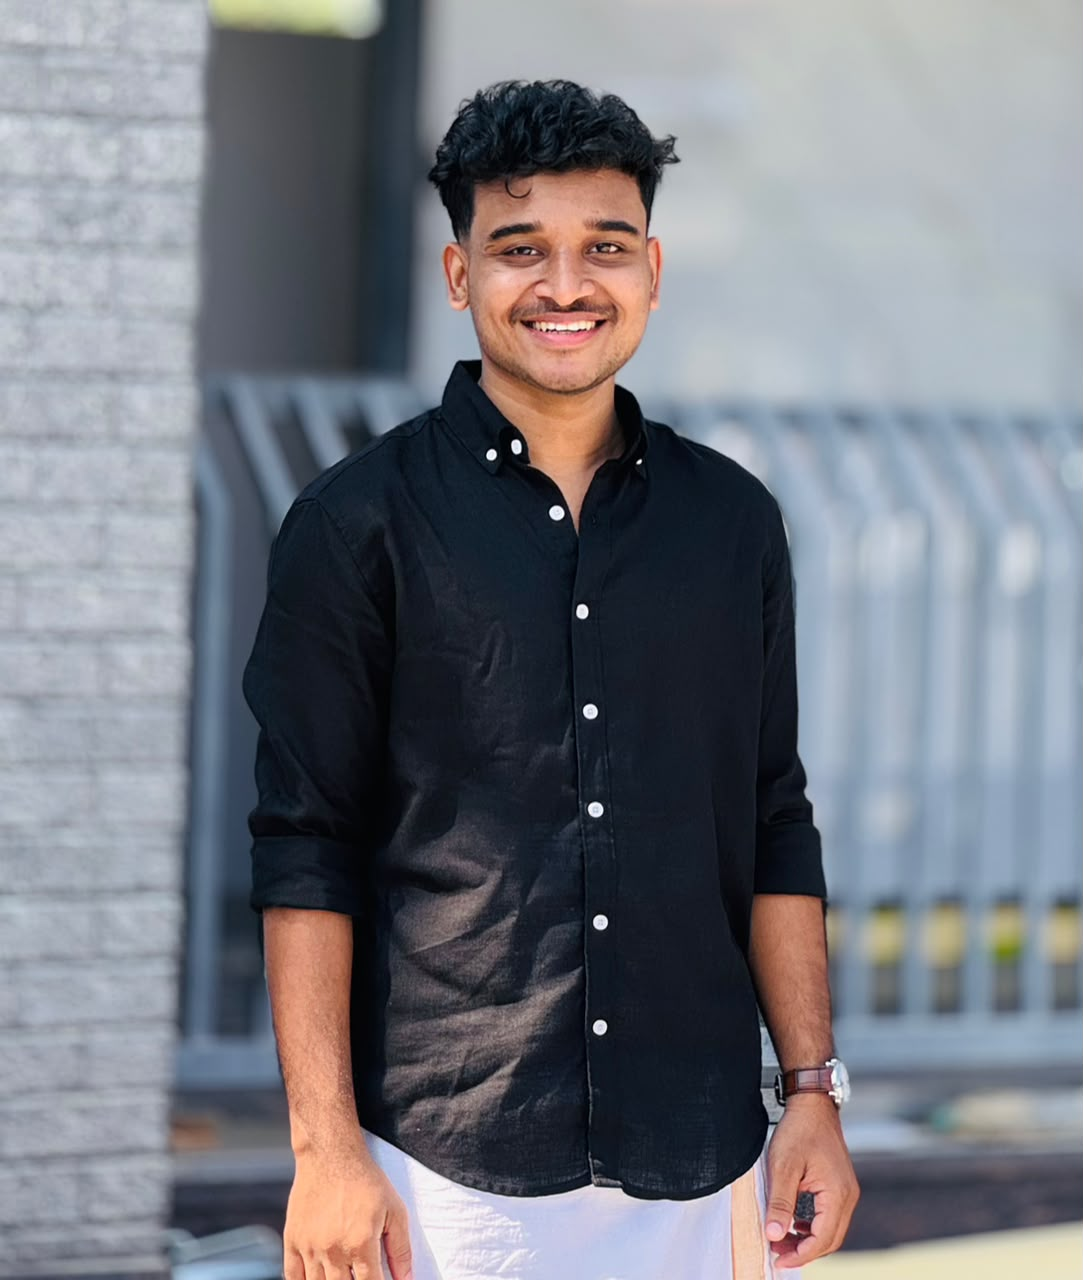
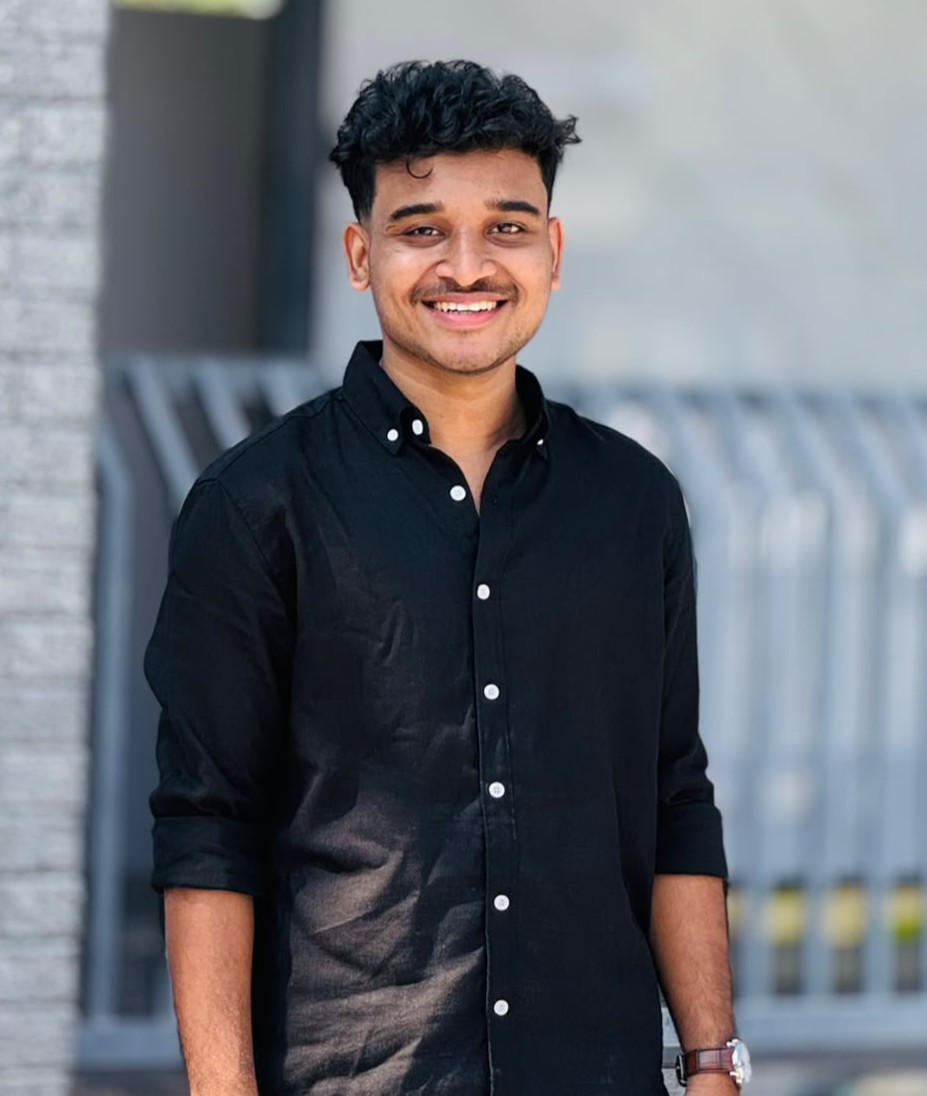
update: polish Professional Experience section with refined bullet points, tech stack tags, and Infopark location details

diff --git a/src/components/ExperienceSection.jsx b/src/components/ExperienceSection.jsx
@@ -1,16 +1,26 @@
 import { NbSection } from './NbSection'
 
 const BULLETS = [
-  'Designed and developed Hospital Management Systems (HMS) for clients across Dubai and India using ASP.NET Core, React, SQL, and PostgreSQL.',
-  'Built and contributed to a CRM system for an overseas educational consultancy, streamlining student and application management processes.',
-  'Built robust backend modules using C# and improved database performance through optimized SQL queries.',
-  'Developed and integrated RESTful APIs to enable seamless communication between frontend and backend systems.',
-  'Integrated third-party APIs to extend system functionality and ensure smooth external service communication.',
-  'Resolved critical production issues and ensured high system availability and reliability.',
-  'Performed unit testing and debugging to ensure application reliability, code quality, and smooth functionality across modules.',
+  'Designed and developed Hospital Management Systems (HMS) for clients across Dubai and India using ASP.NET Core, React, SQL Server, and PostgreSQL.',
+  'Built and contributed to a CRM system for an overseas educational consultancy, streamlining student profiles and application tracking.',
+  'Architected robust backend modules in C# and optimized complex SQL queries for peak database performance.',
+  'Developed and integrated RESTful APIs to enable seamless, real-time communication between frontend React apps and backend services.',
+  'Integrated third-party APIs and payment gateways to extend core system capabilities and external service communication.',
+  'Diagnosed and resolved critical production issues, ensuring high application uptime, performance, and operational reliability.',
+  'Performed thorough unit testing and debugging across modules to deliver clean, maintainable, and bug-free code.',
 ]
 
-const TECH_TAGS = ['ASP.NET Core', 'React.js', 'C#', 'PostgreSQL', 'SQL Server', 'REST APIs', 'CRM', 'HMS Systems']
+const TECH_TAGS = [
+  'C#',
+  'ASP.NET Core',
+  'React.js',
+  'PostgreSQL',
+  'SQL Server',
+  'RESTful APIs',
+  'CRM System',
+  'HMS Systems',
+  'Git & SourceTree',
+]
 
 export function ExperienceSection() {
   return (
@@ -18,18 +28,19 @@ export function ExperienceSection() {
       <h2 className="section-heading">Professional Experience</h2>
       <span className="heading-gap" />
 
-      <div className="exp-entry neat-card notebook-paper-card" style={{ '--d': '0.1s' }}>
-        {/* Scotch Tape on top center */}
+      <div className="exp-entry neat-card notebook-paper-card note-cream" style={{ '--d': '0.1s' }}>
+        {/* Scotch Tape on top center & paperclip icon */}
         <span className="card-tape-top" aria-hidden="true" />
+        <span className="card-pin-icon" aria-hidden="true">📌</span>
 
         <div className="exp-header-row">
           <div className="exp-title-group">
             <h3 className="exp-company">
               <span className="paperclip-icon">📎</span> Antas Technologies
             </h3>
-            <span className="exp-location">📍 Kochi, Kerala, India</span>
+            <span className="exp-location">📍 Infopark, Kochi, Kerala, India</span>
           </div>
-          <span className="exp-date-badge">● Present (1 Year+)</span>
+          <span className="exp-date-badge">● 2024 – Present (1+ Year)</span>
         </div>
 
         <span className="exp-role-title">

diff --git a/src/components/HeroSection.jsx b/src/components/HeroSection.jsx
@@ -17,10 +17,10 @@ export function HeroSection() {
         <div className="hero-text">
 
           {/* Date stamp & location */}
-          <div className="hero-meta-row">
+          {/* <div className="hero-meta-row">
             <span className="hero-date">August, 2025</span>
             <span className="hero-loc">📍 Kochi, Kerala, India</span>
-          </div>
+          </div> */}
 
           {/* Greeting */}
           <h1 className="hero-greeting">
@@ -35,10 +35,10 @@ export function HeroSection() {
           </span>
 
           {/* Sub-tagline */}
-          <span className="hero-tagline">
+          {/* <span className="hero-tagline">
             Specializing in{' '}
             <em className="hero-em">C# · ASP.NET Core · React · Python (Django) · SQL</em>
-          </span>
+          </span> */}
 
           {/* Action Row: Resume Download + Social Icons */}
           <div className="hero-actions">
